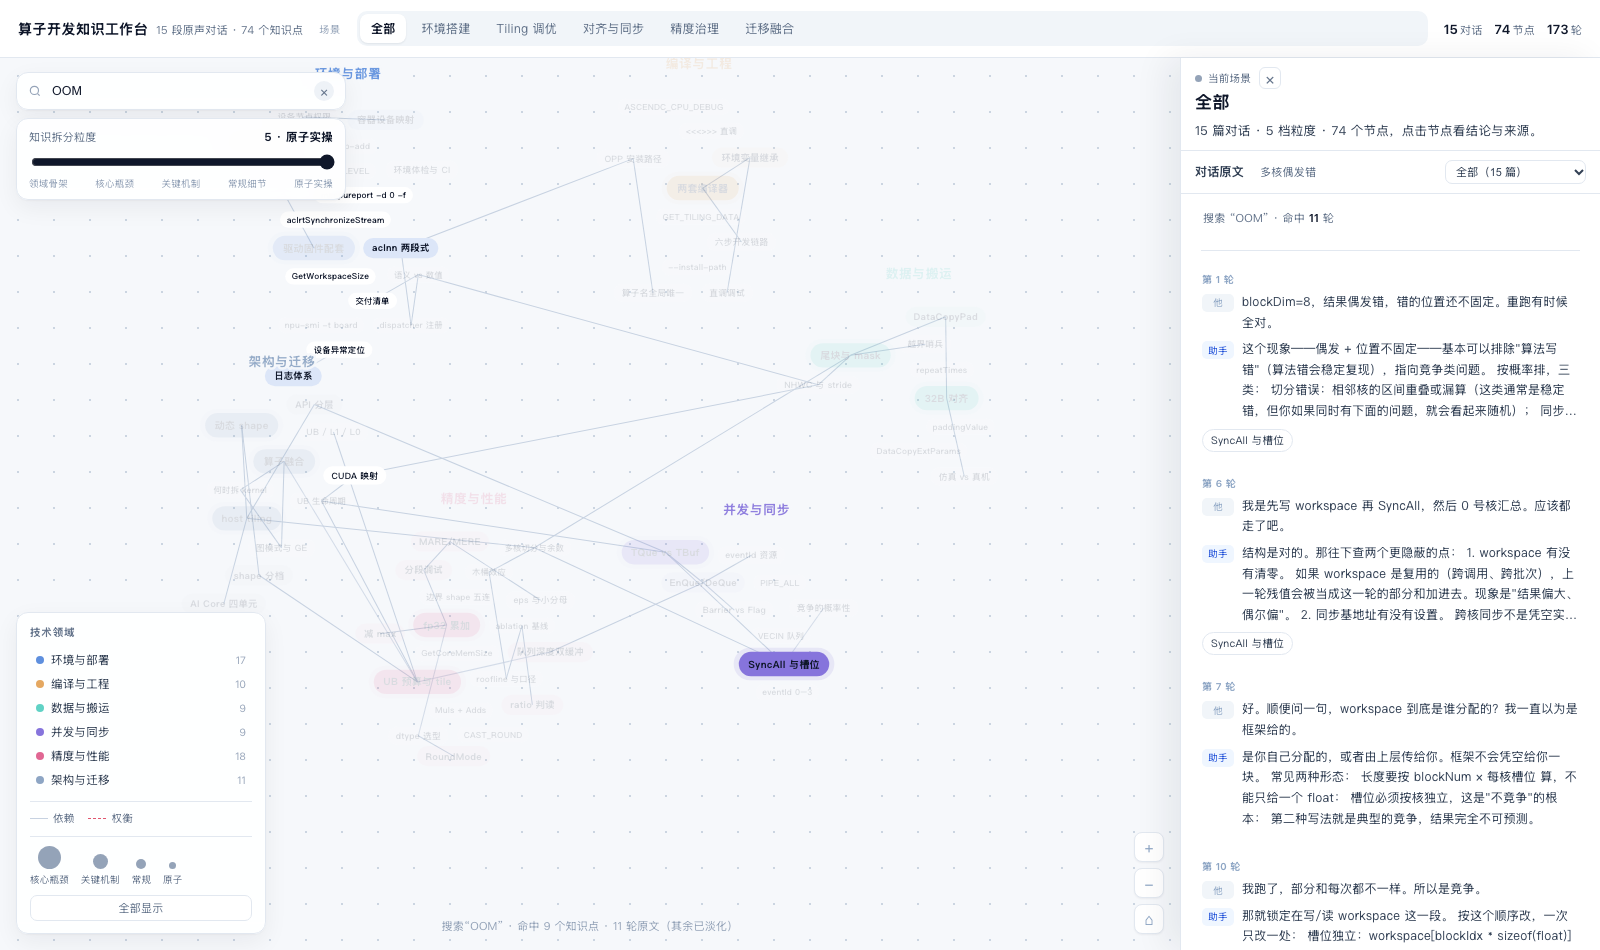
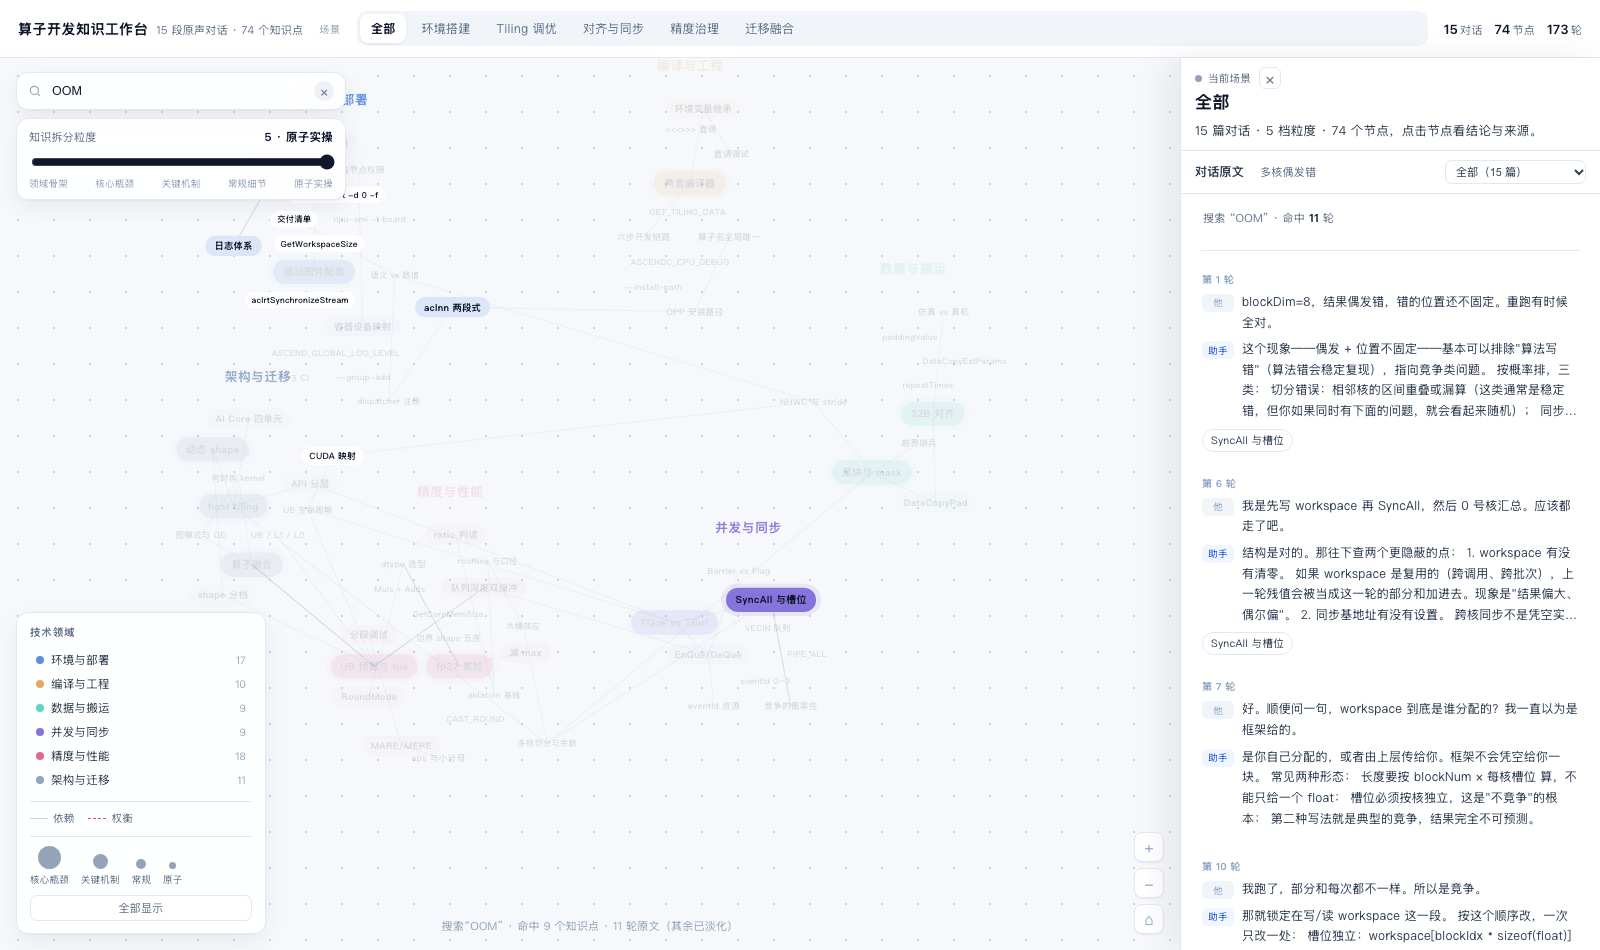
style(search): 搜索时连线统一压暗至 22%，不再单独高亮

diff --git a/cann-dashboard/算子知识工作台.html b/cann-dashboard/算子知识工作台.html
@@ -721,12 +721,11 @@ function applyHighlight(){
     document.querySelectorAll('#domtitles .domtitle').forEach(t=>{
       t.style.opacity = !hitDoms ? .9 : (hitDoms.has(t.dataset.dom) ? .9 : .16);
     });
-    AGG.forEach(e=>{
-      const on=HITS?(HITS.has(e.a)||HITS.has(e.b)):true;
-      e.__el.setAttribute('stroke-opacity',on?'1':'.06');
-    });
     document.querySelectorAll('.eglabel').forEach(e=>e.remove());
-    AGG.forEach(e=>{ e.__el.setAttribute('stroke-opacity','1'); e.__el.removeAttribute('marker-end'); });
+    AGG.forEach(e=>{
+      e.__el.setAttribute('stroke-opacity', HITS?'.22':'1');
+      e.__el.removeAttribute('marker-end');
+    });
     return;
   }
   document.querySelectorAll('#domtitles .domtitle').forEach(t=>{ t.style.opacity=.9; });
